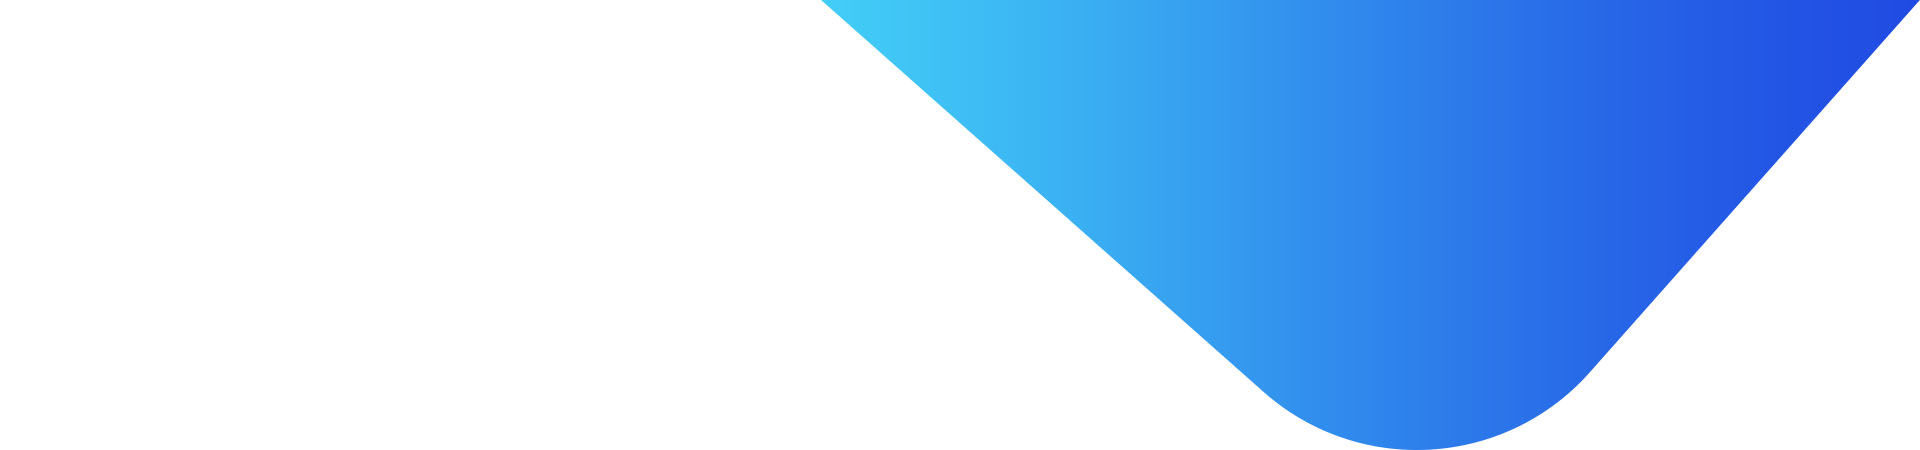
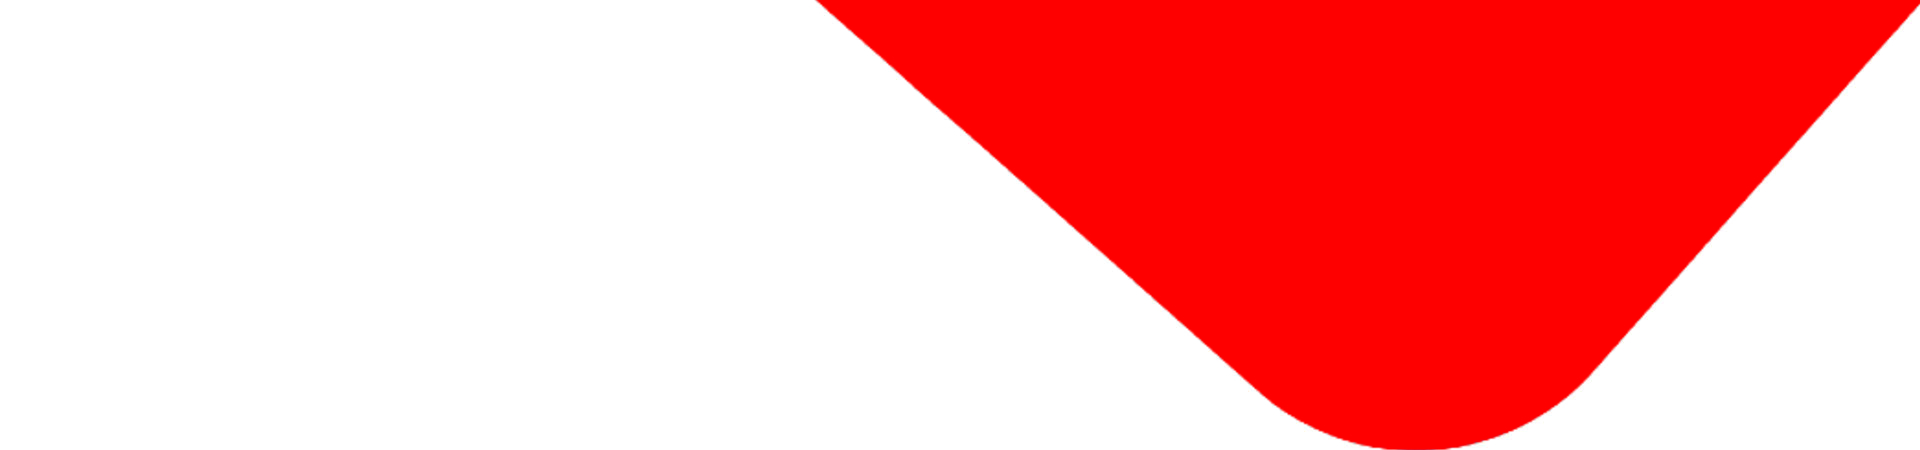
Wrapping up header changes / visual tweaks

diff --git a/index.html b/index.html
@@ -34,7 +34,7 @@
 
 <body>
 	<!-- start header Area -->
-	<header id="header bg-dark">
+	<header id="header">
 		<div class="container main-menu">
 			<div class="row align-items-center justify-content-between d-flex">
 				<div id="logo">
@@ -42,24 +42,24 @@
 				</div>
 				<nav id="nav-menu-container ">
 					<ul class="nav-menu">
-						<li class="menu-active"><a href="index.html">Home</a></li>
+						<li class="menu-active"><a href="index.html"><b>Home</b></a></li>
 
-						<li><a href="about.html">About</a></li>
+						<li><a href="about.html"><b>About</b></a></li>
 
-						<li><a href="pricing.html">Pricing</a></li>
+						<li><a href="pricing.html"><b>Pricing</b></a></li>
 
-						<li class="menu-has-children"><a href="">Pages</a>
+						<li class="menu-has-children"><a href=""><b>Pages</b></a>
 							<ul>
-								<li><a href="elements.html">Elements</a></li>
+								<li><a href="elements.html"><b>Elements</b></a></li>
 							</ul>
 						</li>
-						<li class="menu-has-children"><a href="">Blog</a>
+						<li class="menu-has-children"><a href=""><b>Blog</b></a>
 							<ul>
-								<li><a href="blog-home.html">Blog Home</a></li>
-								<li><a href="blog-single.html">Blog Single</a></li>
+								<li><a href="blog-home.html"><b>Blog Home</b></a></li>
+								<li><a href="blog-single.html"><b>Blog Single</b></a></li>
 							</ul>
 						</li>
-						<li><a href="contact.html">Contact</a></li>
+						<li><a href="contact.html"><b>Contact</b></a></li>
 					</ul>
 				</nav>
 			</div>
@@ -68,10 +68,10 @@
 	<!-- end header Area -->
 
 	<!-- start banner Area -->
-	<section class="">
+	<section class="home-banner-area">
 		<div class="container">
 			<div class="row fullscreen d-flex align-items-center justify-content-between">
-				<div class="home-banner-content col-lg-6 col-md-6">
+				<div class="home col-lg-6 col-md-6">
 					<h1>
 						CyberSecurity <br> OSINT Tools
 					</h1>
@@ -245,6 +245,7 @@
 				</div>
 			</div>
 			<div class="row">
+
 				<div class="owl-carousel owl-screenshot">
 					<div class="single-screenshot">
 						<img class="img-fluid" src="img/screenshots/s1.jpg" alt="">

diff --git a/css/main.css b/css/main.css
@@ -12,7 +12,7 @@
   color: #fff; }
 
 ::selection {
-  background-color: #46dbf9;
+  background-color: #ff3c3c;
   color: #fff; }
 
 ::-webkit-input-placeholder {
@@ -101,11 +101,11 @@ a, a:focus, a:hover {
 h1, h2, h3,
 h4, h5, h6 {
   font-family: "Poppins", sans-serif;
-  color: #222222;
+  
   line-height: 1.2em !important;
   margin-bottom: 0;
   margin-top: 0;
-  font-weight: 600; }
+  font-weight: 900; }
 
 .h1, .h2, .h3,
 .h4, .h5, .h6 {
@@ -806,7 +806,7 @@ td, th {
   font-size: 24px; }
 
 b, sup, sub, u, del {
-  color: #46dbf9; }
+  color: #ffffff; }
 
 h1 {
   font-size: 36px; }
@@ -1634,9 +1634,13 @@ h1, h2, h3, h4, h5, h6 {
   z-index: 997; }
 
 .header-scrolled {
-  background: rgba(70, 219, 249, 0.9);
+  background: black;
+  color:white;
   transition: all 0.5s; }
-
+  a.header-scrolled {
+    background: black;
+    color:white;
+    transition: all 0.5s; }
 @media (max-width: 673px) {
   #logo {
     margin-left: 20px; } }
@@ -1726,7 +1730,7 @@ h1, h2, h3, h4, h5, h6 {
   margin: 0 -2px;
   text-decoration: none;
   display: inline-block;
-  color: black;
+  color: white;
   font-weight: 500;
   font-size: 15px;
   font-family: "Poppins", sans-serif;
